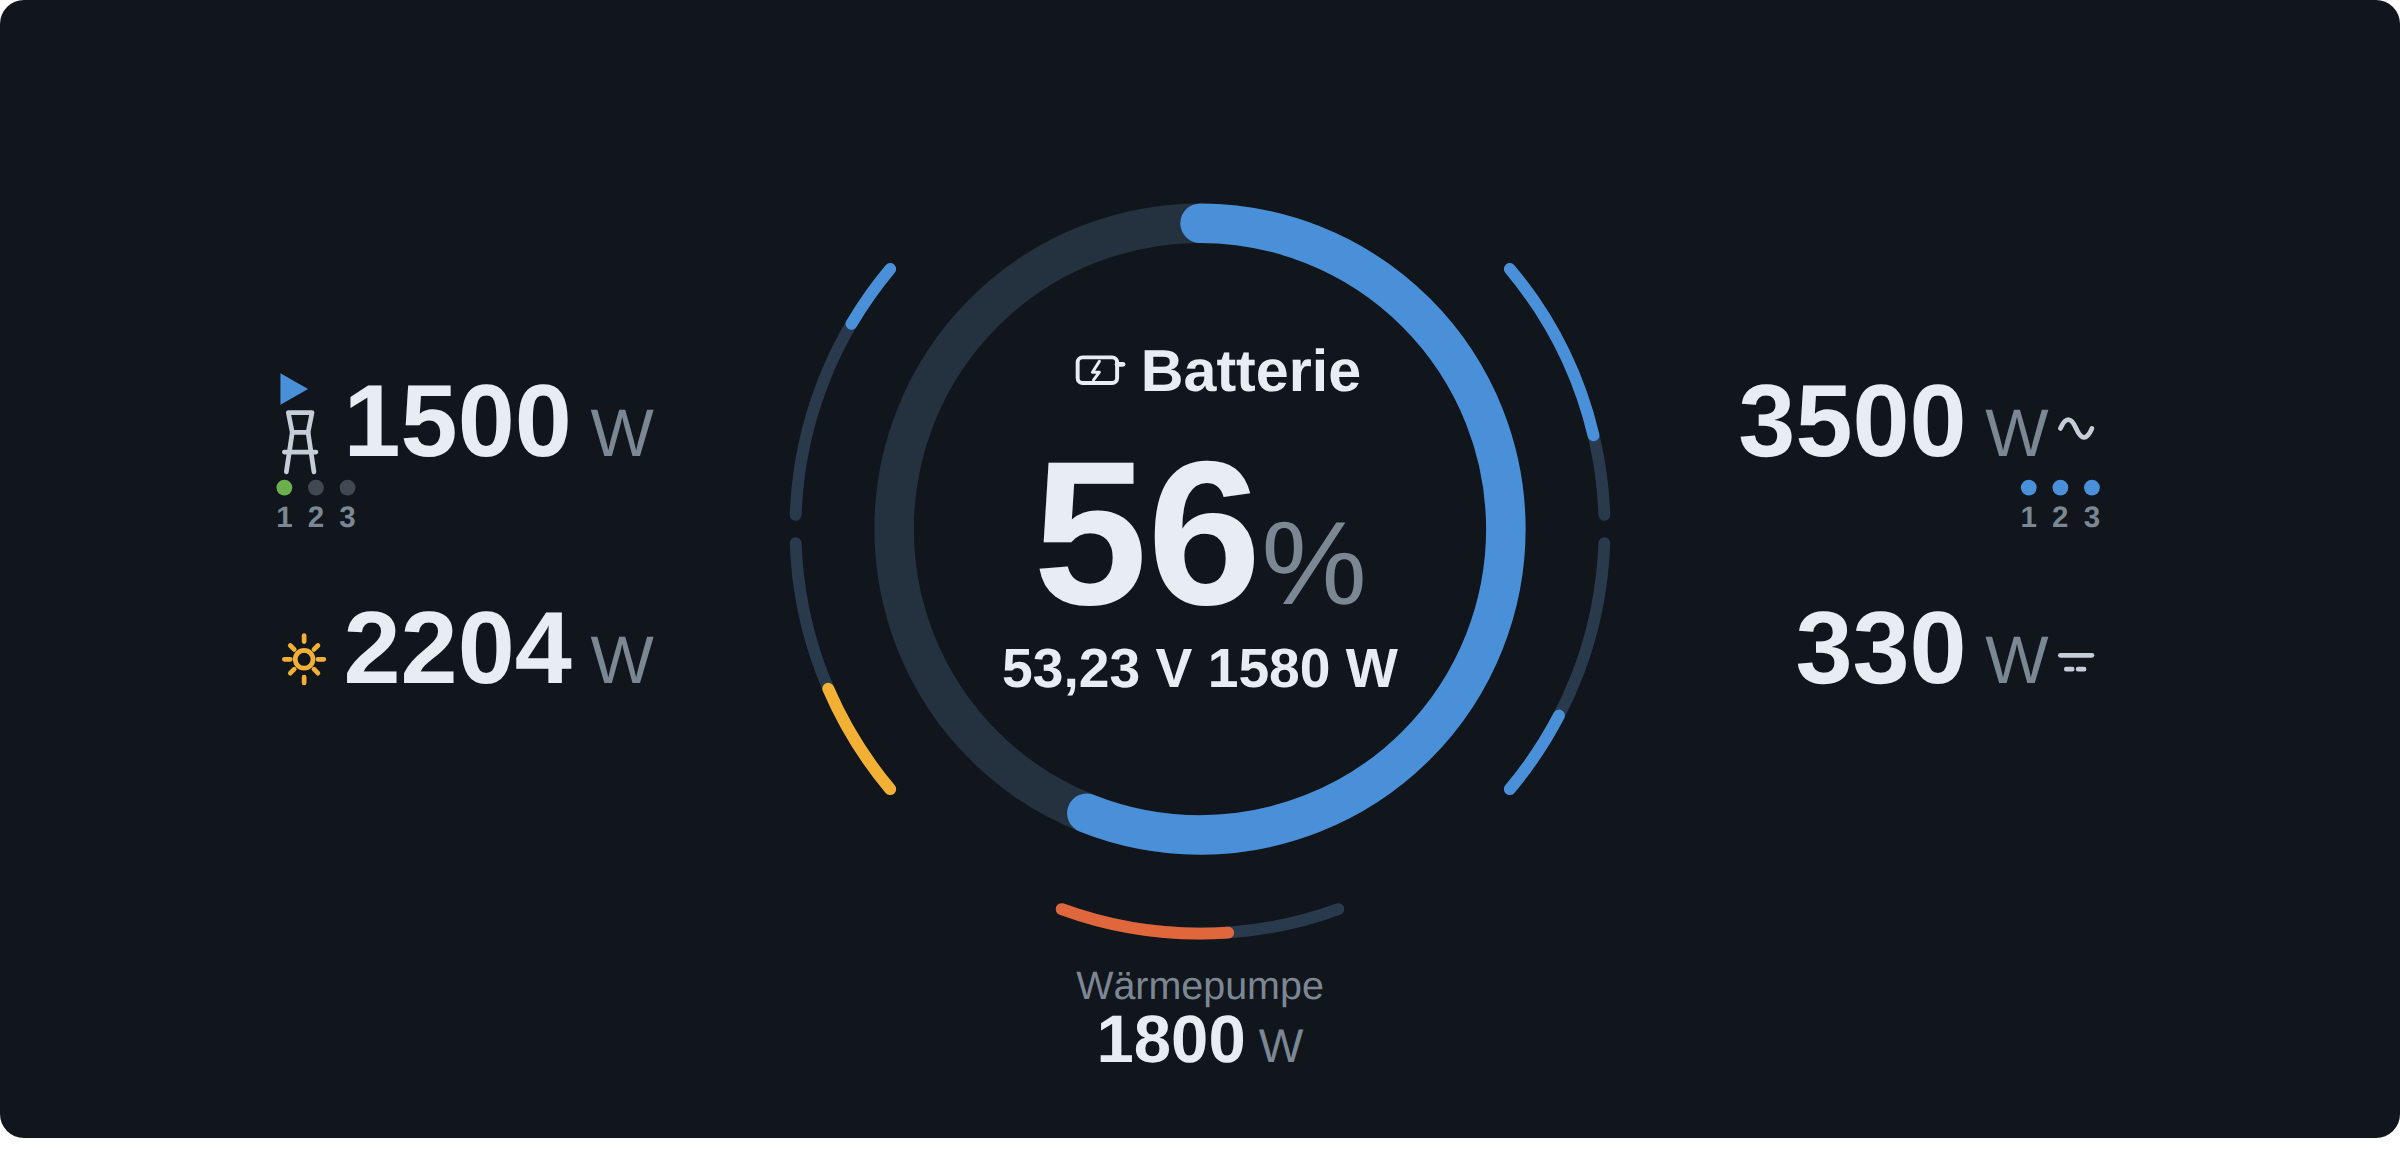
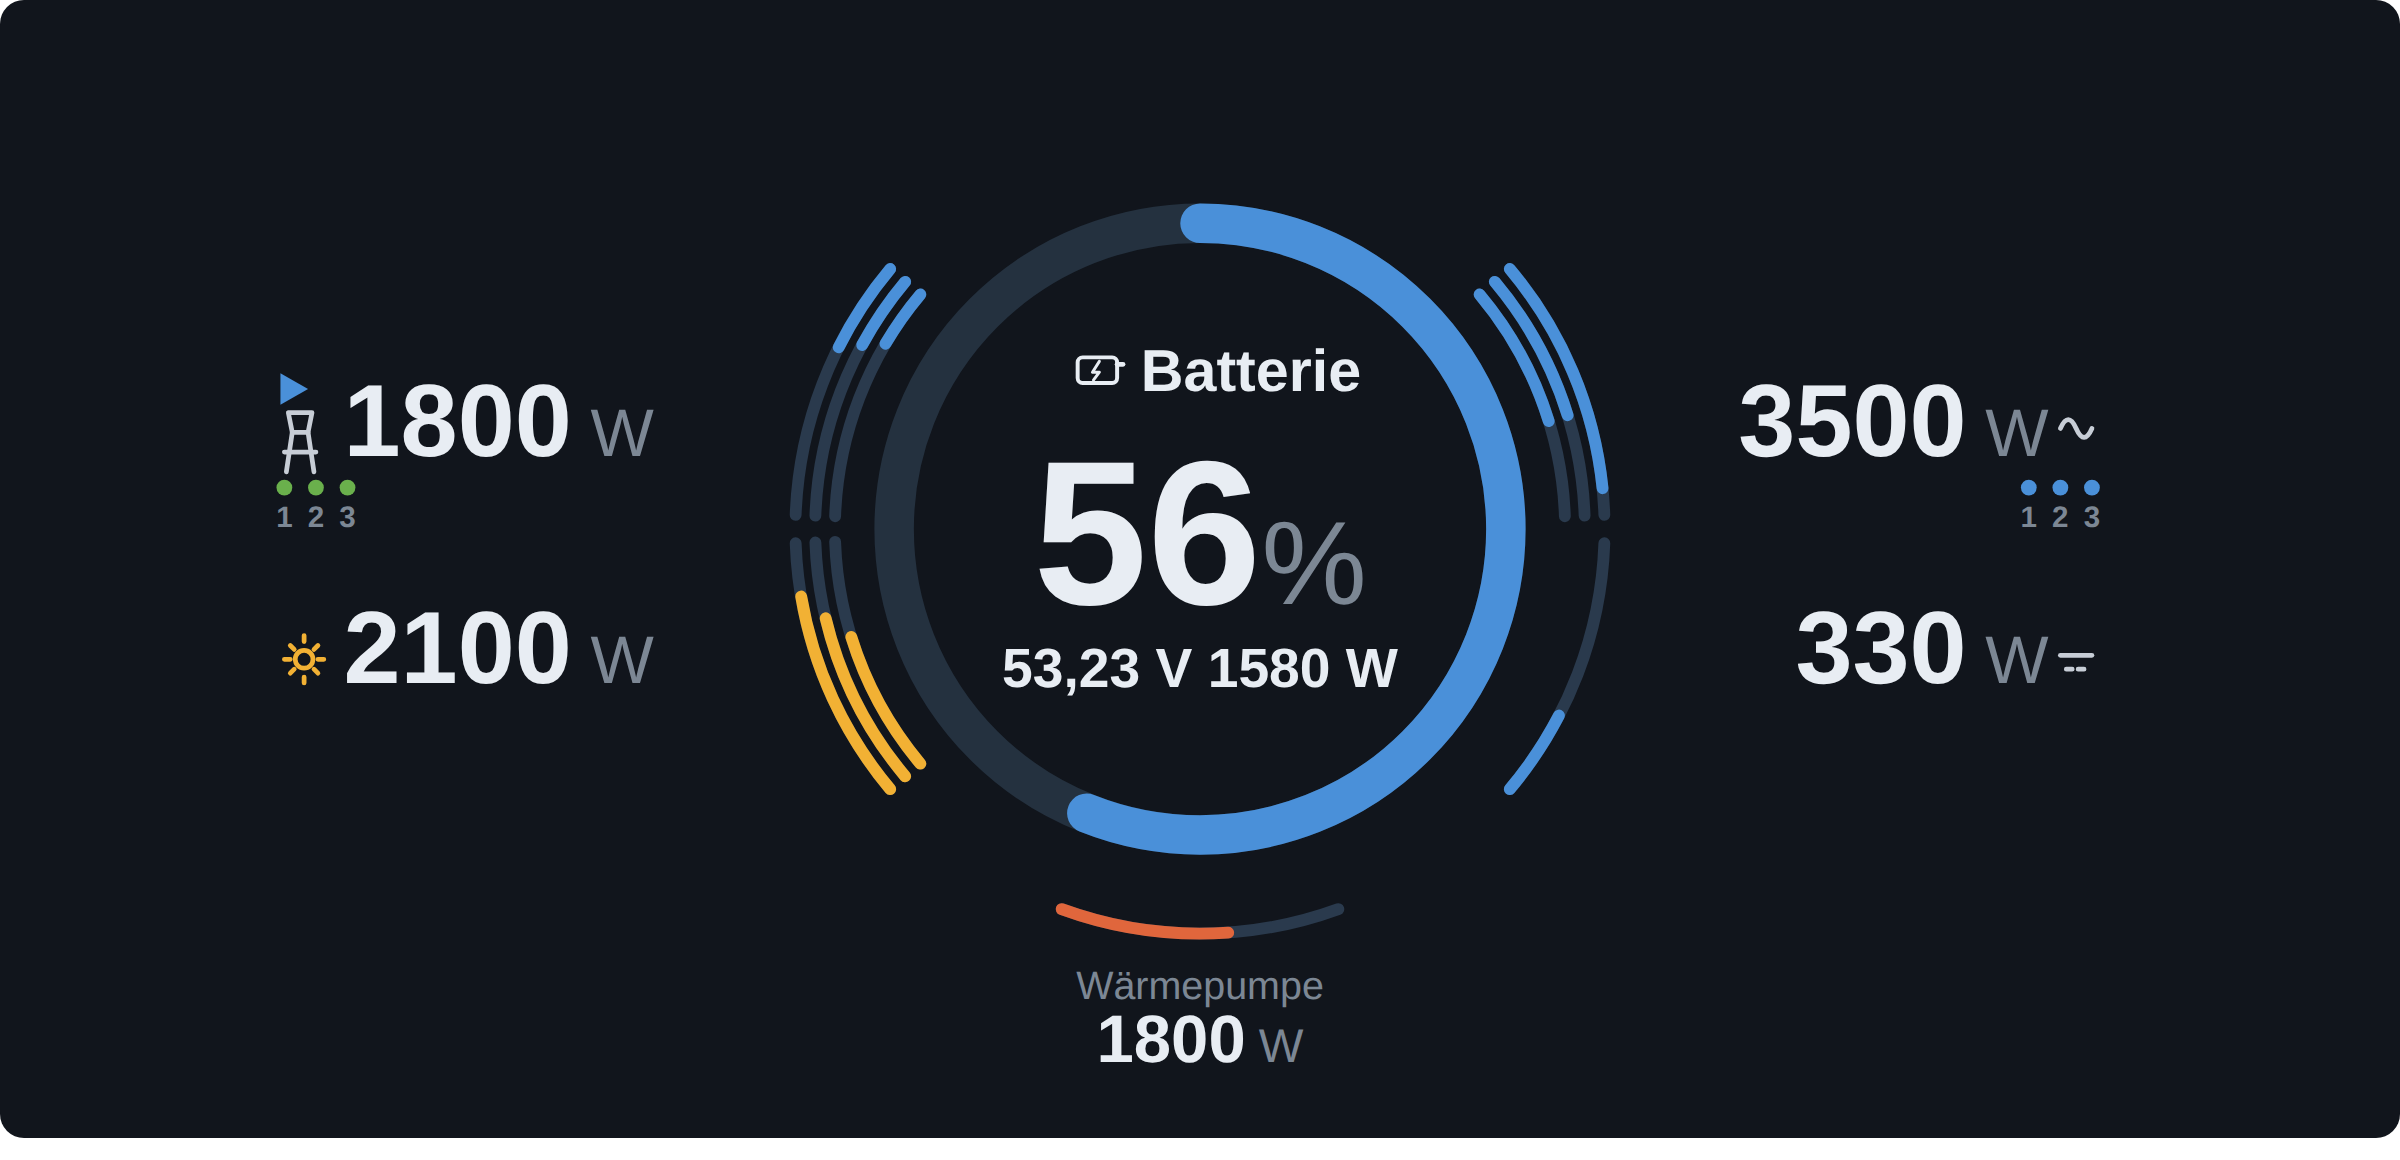
Per-phase bars, value visibility, 1s MQTT interval (v1.3)
Addresses issue #9.

- Grid, AC consumption and solar now render one utilization bar per
  phase (three concentric arcs); the large number stays the total. Falls
  back to a single total bar when no phase data is available.
- New "Visibility" options to show/hide grid, solar, AC consumption and
  DC loads, plus individual solar phases (L1/L2/L3).
- Update interval can now go down to 1 s (useful for MQTT).
- MQTT confirmed working by the user, so the beta wording is removed.
- Bump library to 1.3, regenerate previews, update README.

Claude-Session: https://claude.ai/code/session_01AEecf3Q7fefkV69du2b9x2

diff --git a/VictronVRMEnergyMonitor/module.html b/VictronVRMEnergyMonitor/module.html
@@ -164,6 +164,25 @@
             group.appendChild(fill);
         }
 
+        function hasValues(arr) {
+            return arr && arr.some(function (p) { return p !== null && p !== undefined; });
+        }
+
+        // Zeichnet je Phase einen kleinen Balken (konzentrisch); ohne Phasendaten einen Gesamt-Balken.
+        function drawSource(group, def, total, phases, maxTotal, color, showMask) {
+            if (hasValues(phases)) {
+                var radii = [def.r, def.r - 10, def.r - 20];
+                var pmax = maxTotal > 0 ? maxTotal / 3 : 0;
+                for (var i = 0; i < 3; i++) {
+                    if (phases[i] === null || phases[i] === undefined) { continue; }
+                    if (showMask && showMask[i] === false) { continue; }
+                    buildBar(group, { r: radii[i], src: def.src, ring: def.ring }, phases[i], pmax, color);
+                }
+            } else {
+                buildBar(group, def, total, maxTotal, color);
+            }
+        }
+
         function phaseDots(group, phases, activeColor) {
             while (group.firstChild) { group.removeChild(group.firstChild); }
             for (var i = 0; i < 3; i++) {
@@ -203,6 +222,20 @@
             phaseDots(document.getElementById('vrmGridPhases'), d.gridPhases, 'var(--active)');
             phaseDots(document.getElementById('vrmAcPhases'), d.consPhases, 'var(--ring)');
 
+            // Sichtbarkeit der Knoten
+            var show = d.show || {};
+            var vis = function (id, on) {
+                var g = document.getElementById(id);
+                if (g) { g.style.display = (on === false) ? 'none' : ''; }
+            };
+            var showGrid = show.grid !== false, showSolar = show.solar !== false;
+            var showCons = show.consumption !== false, showDc = show.dc !== false;
+            vis('vrmGrid', showGrid);
+            vis('vrmSolar', showSolar);
+            vis('vrmAc', showCons);
+            vis('vrmDc', showDc);
+            var solarMask = show.solarPhases || null;
+
             // Zusätzlicher Verbraucher (optional)
             var extra = d.extra && d.extra.enabled ? d.extra : null;
             var extraGroup = document.getElementById('vrmExtra');
@@ -216,10 +249,10 @@
 
             var arcs = document.getElementById('vrmArcs');
             while (arcs.firstChild) { arcs.removeChild(arcs.firstChild); }
-            buildBar(arcs, ARCS.solar, pv, d.maxPv, 'var(--solar)');
-            buildBar(arcs, ARCS.grid, grid, d.maxGrid, 'var(--ring)');
-            buildBar(arcs, ARCS.ac, ac, d.maxConsumption, 'var(--ring)');
-            buildBar(arcs, ARCS.dc, dc, d.maxDc, 'var(--ring)');
+            if (showSolar) { drawSource(arcs, ARCS.solar, pv, d.solarPhases, d.maxPv, 'var(--solar)', solarMask); }
+            if (showGrid) { drawSource(arcs, ARCS.grid, grid, d.gridPhases, d.maxGrid, 'var(--ring)', null); }
+            if (showCons) { drawSource(arcs, ARCS.ac, ac, d.consPhases, d.maxConsumption, 'var(--ring)', null); }
+            if (showDc) { buildBar(arcs, ARCS.dc, dc, d.maxDc, 'var(--ring)'); }
             if (extra) { buildBar(arcs, ARCS.extra, extra.value, extra.max, 'var(--consumption)'); }
         }
 

diff --git a/VictronVRMEnergyMonitor/module.php b/VictronVRMEnergyMonitor/module.php
@@ -54,6 +54,17 @@ class VictronVRMEnergyMonitor extends IPSModule
         $this->RegisterPropertyInteger('MaxConsumption', 5000);
         $this->RegisterPropertyInteger('MaxDC', 1000);
 
+        // Sichtbarkeit der Werte/Knoten
+        $this->RegisterPropertyBoolean('ShowGrid', true);
+        $this->RegisterPropertyBoolean('ShowSolar', true);
+        $this->RegisterPropertyBoolean('ShowConsumption', true);
+        $this->RegisterPropertyBoolean('ShowDC', true);
+
+        // Einzelne Solar-Phasen ausblenden
+        $this->RegisterPropertyBoolean('ShowSolarL1', true);
+        $this->RegisterPropertyBoolean('ShowSolarL2', true);
+        $this->RegisterPropertyBoolean('ShowSolarL3', true);
+
         // Zweiter Verbraucher aus einer Symcon-Variable
         $this->RegisterPropertyBoolean('ExtraEnabled', false);
         $this->RegisterPropertyString('ExtraName', 'Wärmepumpe');
@@ -97,8 +108,8 @@ class VictronVRMEnergyMonitor extends IPSModule
         $this->SetStatus(102);
 
         $interval = $this->ReadPropertyInteger('UpdateInterval');
-        if ($interval < 5) {
-            $interval = 5;
+        if ($interval < 1) {
+            $interval = 1;
         }
         $this->SetTimerInterval('Update', $interval * 1000);
     }
@@ -248,6 +259,7 @@ class VictronVRMEnergyMonitor extends IPSModule
             'BatteryVoltage' => $round($get('battery/voltage'), 2),
             'Battery'        => $round($get('battery/power'), 0),
             'PV'             => $round($sum(['pv/dc', 'pv/ac_l1', 'pv/ac_l2', 'pv/ac_l3']), 0),
+            'SolarPhases'    => $phases(['pv/ac_l1', 'pv/ac_l2', 'pv/ac_l3']),
             'Grid'           => $round($sum(['grid/l1', 'grid/l2', 'grid/l3']), 0),
             'GridPhases'     => $phases(['grid/l1', 'grid/l2', 'grid/l3']),
             'Consumption'    => $round($sum(['cons/l1', 'cons/l2', 'cons/l3']), 0),
@@ -358,6 +370,7 @@ class VictronVRMEnergyMonitor extends IPSModule
             'BatteryVoltage' => $round($bvolt, 2),
             'Battery'        => $round($battery, 0),
             'PV'             => $round($pv, 0),
+            'SolarPhases'    => [],
             'Grid'           => $round($grid, 0),
             'GridPhases'     => $gridPhases,
             'Consumption'    => $round($consumption, 0),
@@ -375,6 +388,7 @@ class VictronVRMEnergyMonitor extends IPSModule
             'battVoltage' => $m['BatteryVoltage'],
             'battPower'   => $m['Battery'] ?? 0.0,
             'pv'          => $m['PV'] ?? 0.0,
+            'solarPhases' => $m['SolarPhases'] ?? [],
             'grid'        => $m['Grid'] ?? 0.0,
             'gridPhases'  => $m['GridPhases'] ?? [],
             'consumption' => $m['Consumption'] ?? 0.0,
@@ -395,6 +409,17 @@ class VictronVRMEnergyMonitor extends IPSModule
             'maxGrid'        => $this->ReadPropertyInteger('MaxGrid'),
             'maxConsumption' => $this->ReadPropertyInteger('MaxConsumption'),
             'maxDc'          => $this->ReadPropertyInteger('MaxDC'),
+            'show'           => [
+                'grid'        => $this->ReadPropertyBoolean('ShowGrid'),
+                'solar'       => $this->ReadPropertyBoolean('ShowSolar'),
+                'consumption' => $this->ReadPropertyBoolean('ShowConsumption'),
+                'dc'          => $this->ReadPropertyBoolean('ShowDC'),
+                'solarPhases' => [
+                    $this->ReadPropertyBoolean('ShowSolarL1'),
+                    $this->ReadPropertyBoolean('ShowSolarL2'),
+                    $this->ReadPropertyBoolean('ShowSolarL3'),
+                ],
+            ],
             'extra'          => [
                 'enabled' => $extraEnabled,
                 'name'    => $this->ReadPropertyString('ExtraName'),

diff --git a/README.md b/README.md
@@ -39,18 +39,28 @@ Im Formular oben wählst du die **Datenquelle**:
 
 - **VRM Cloud** (Standard): einfach, ohne lokalen Netzzugriff, aber die Cloud
   aktualisiert nur alle paar Minuten.
-- **MQTT (lokal) – Beta**: nahezu Echtzeit über den Broker auf dem Cerbo GX /
+- **MQTT (lokal)**: nahezu Echtzeit über den Broker auf dem Cerbo GX /
   Venus OS. Aktiviere dort **Einstellungen → Dienste → MQTT**. Trage Host/IP
   (Port 1883) ein; Benutzer/Passwort nur falls gesetzt; die Portal-ID wird
   automatisch erkannt. Mit **„MQTT-Verbindung testen"** prüfst du die Anbindung.
-  > ⚠ MQTT ist als Beta gekennzeichnet und wurde noch nicht gegen einen echten
-  > Broker getestet – Rückmeldungen willkommen.
+  Das Aktualisierungsintervall lässt sich für MQTT bis auf **1 Sekunde** stellen.
 
 ## Auslastungsbalken
 
-Die Bögen um den Ring sind **0–100 %-Auslastungsbalken**. Unter
-**„Anzeige / Auslastungsbalken"** gibst du je Quelle/Last die Nennleistung (W)
-an, die 100 % entspricht (z. B. Solar 5000 W, Netz 11000 W).
+Die Bögen um den Ring sind **0–100 %-Auslastungsbalken**. Bei Netz, AC-Verbrauch
+und Solar wird **je Phase ein eigener Balken** angezeigt (drei konzentrische
+Bögen); die große Zahl ist der jeweilige Gesamtwert. Liegen keine Phasendaten vor,
+wird ein einzelner Gesamt-Balken gezeigt.
+
+Unter **„Anzeige / Auslastungsbalken"** gibst du je Quelle/Last die Nennleistung (W)
+an, die 100 % entspricht (z. B. Solar 5000 W, Netz 11000 W); je Phasenbalken gilt
+ein Drittel davon.
+
+## Sichtbarkeit
+
+Unter **„Sichtbarkeit"** lassen sich einzelne Werte aus- und einblenden
+(z. B. DC-Lasten ganz ausblenden) sowie einzelne **Solar-Phasen** (L1/L2/L3)
+abschalten.
 
 ## Zweiter Verbraucher (z. B. Wärmepumpe)
 
